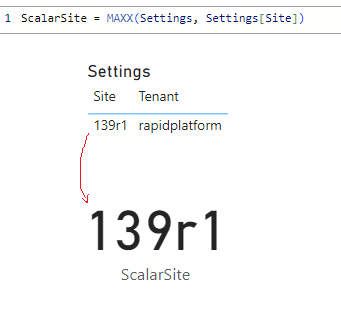
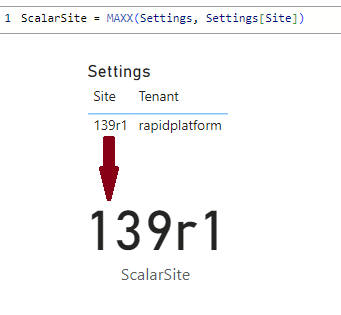
FIX: Updated Example image with good annotation

Changed region(s): [[0.2933, 0.4286, 0.3519, 0.6571], [0.2346, 0.6, 0.2639, 0.6571]]

diff --git a/docs/Rapid/3-User Manual/2-Explorer/1-Tables and items/items/items.md b/docs/Rapid/3-User Manual/2-Explorer/1-Tables and items/items/items.md
@@ -1,11 +1,11 @@
 # Items
 
-Items in Rapid represent a single row on a [Rapid Table](../data-tables/data-tables.md) they are made up of an arbitrary number of columns. 
+Items in Rapid represent a single row on a [Rapid Table](../data-tables/1-viewing-data-using-tables.md) they are made up of an arbitrary number of columns. 
 
 
 ![A single item highlighted on a Rapid table](<a single item highlighted on a table.png>)
 
-A simple example of a rapid item is a Task, which exist on a default [system table](../system-tables/system-tables.md), and thus exist on all rapid sites. You can access tasks by clicking on the 'Tasks' menu button in the Rapid sidebar
+A simple example of a rapid item is a Task, which exist on a default [system table](../data-tables/1-viewing-data-using-tables.md), and thus exist on all rapid sites. You can access tasks by clicking on the 'Tasks' menu button in the Rapid sidebar
 
 
 ## Columns
